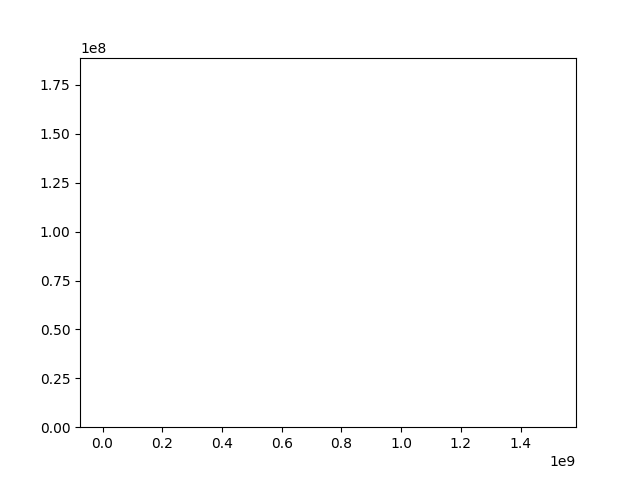
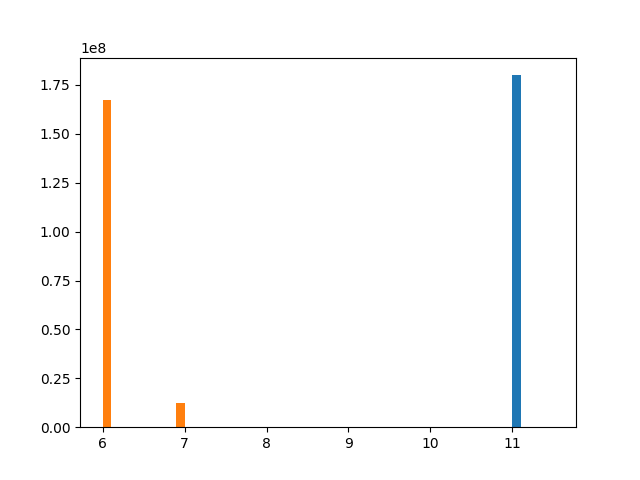
quitar año y mes

diff --git a/rusboot.py b/rusboot.py
@@ -1,0 +1,184 @@
+from sklearn import svm
+from sklearn import tree
+from math import log
+import random
+
+class RUSBoost:
+
+
+    def __init__(self, instances, labels, base_classifier, n_classifier, balance):
+        
+        self.w_update=[]
+        self.clf = []
+        self.n_classifier = n_classifier
+        for i in range(n_classifier):
+            self.clf.append(base_classifier)
+        self.rate = balance
+        self.X = instances
+        self.Y = labels
+        
+        # initialize weight
+        self.weight = []
+        self.init_w = 1.0/len(self.X)
+        for i in range(len(self.X)):
+            self.weight.append(self.init_w)
+    
+    def classify(self, instance):
+        
+        positive_score = 0 # in case of +1
+        negative_score = 0 # in case of 0
+        
+        for k in range(self.n_classifier):
+            if self.clf[k].predict(instance) == 1:
+                positive_score += log(1/self.w_update[k])
+            else:
+                negative_score += log(1/self.w_update[k])
+        if negative_score <= positive_score:
+            return 1
+        else:
+            return 0
+        
+            
+        
+    def learning(self):
+        
+        k = 0
+        while k < self.n_classifier:
+            
+            sampled = self.undersampling()
+            sampled_X = []
+            sampled_Y = []
+            sampled_weight = []
+            
+            for s in sampled:
+                sampled_X.append(s[1])
+                sampled_Y.append(s[2])
+                sampled_weight.append(self.weight[s[0]])
+                
+            self.clf[k].fit(sampled_X, sampled_Y, sampled_weight)
+           
+   
+            loss = 0
+            for i in range(len(self.X)):
+                if self.Y[i] == self.clf[k].predict(self.X[i]):
+                    continue
+                else:
+                    loss += self.weight[i]
+    
+            self.w_update.append(loss/(1-loss))
+        
+            for i in range(len(self.weight)):
+                if loss == 0:
+                    self.weight[i] = self.weight[i]
+                elif self.Y[i] == self.clf[k].predict(self.X[i]):
+                    self.weight[i] = self.weight[i] * (loss / (1 - loss))
+                       
+            sum_weight = 0
+            for i in range(len(self.weight)):
+                sum_weight += self.weight[i]
+              
+            for i in range(len(self.weight)):
+                self.weight[i] = self.weight[i] / sum_weight
+            k = k + 1
+     
+            
+    def undersampling(self):
+        
+        '''Check the major class'''
+        diff = self.Y.count(1) > self.Y.count(0)
+        delete_list = []
+        keep_list =[]
+        if  diff:
+            for i in range(len(self.Y)):
+                if self.Y[i] == 1:
+                    delete_data = [i, self.X[i], 1]
+                    delete_list.append(delete_data)
+                else:
+                    keep_data = [i, self.X[i], 0]
+                    keep_list.append(keep_data)
+        else:
+            for i in range(len(self.Y)):
+                if self.Y[i] == 0:
+                    delete_data = [i, self.X[i], 0]
+                    delete_list.append(delete_data)
+                else:
+                    keep_data = [i, self.X[i], 1]
+                    keep_list.append(keep_data)  
+        
+        while len(delete_list) > self.rate*(len(delete_list)+len(keep_list)):
+            k = random.choice(range(len(delete_list)))
+            delete_list.pop(k)
+        
+        all_list = delete_list + keep_list
+        return sorted(all_list, key=lambda x:x[2])
+    
+if __name__ == '__main__':
+    
+    ''' 
+    Choose a base classifier, e.g. SVM, Decision Tree
+    '''
+    #base_classifier = svm.SVC()
+    base_classifier = tree.DecisionTreeClassifier()
+
+    '''
+    Set the number of base classifiers
+    ''' 
+    N = 20
+    
+    '''
+    Set the rate of minor instances to the total instances
+    If the rate is 0.5, the numbers of both instances become equal
+    by random under sampling. 
+    ''' 
+    rate = 0.05
+    
+    
+    '''
+    Preparation of data
+        "Ecoli data" from
+        http://www.cs.gsu.edu/~zding/research/benchmark-data.php
+        Test data: randomly selected one
+        Supervised data: the others 
+    '''
+    supervisedData =[]
+    supervisedLabel=[]
+    testData =[]
+    testLabel =[]
+    n_features = 7
+    
+    # Read from a text file
+    lines = [] ## all lines
+    for line in open('x1data.txt', 'r'):
+        elements = line[:-1].split(' ')
+        lines.append(elements)
+    
+    # Select a line for test data
+    selectline = lines.pop(random.randint(0, len(lines)))
+    
+    # Separate each line into a feature vector and a lebel
+    testLabel.append(int(selectline[0]))
+    testData = [0]*n_features
+    for i in range(1,n_features+1):
+        pair = selectline[i].split(':')
+        if pair[0] != '':
+            testData[int(pair[0])-1] = pair[1]
+    
+    for line in lines:
+        supervisedLabel.append(int(line[0]))
+        sData = [0]*n_features
+        for i in range(1,n_features+1):
+            pair = line[i].split(':')
+            if pair[0] != '':
+                sData[int(pair[0])-1] = pair[1]
+        supervisedData.append(sData)
+    
+    
+    rus = RUSBoost(supervisedData, supervisedLabel, base_classifier, N, rate)
+    rus.learning()
+    classifiedLabel = rus.classify(testData)
+    print "Test data:",
+    for t in testData:
+        print t,
+    print
+    print "Classified to :" + str(classifiedLabel)
+print "True label is :" + str(testLabel[0])

diff --git a/boosting.py b/boosting.py
@@ -69,10 +69,11 @@ def low_ram_test_read():
 def processDates(df):
     df['click_time_timestamp'] = df['click_time'].map(lambda x: x.timestamp())
     df['click_time'] = pd.to_datetime(df['click_time']).dt.date
-    df['click_time_year'] =pd.to_numeric(df['click_time'].map(lambda x: x.year),downcast='unsigned')
-    df['click_time_month'] =pd.to_numeric(df['click_time'].map(lambda x: x.month),downcast='unsigned')
+    #df['click_time_year'] =pd.to_numeric(df['click_time'].map(lambda x: x.year),downcast='unsigned')
+    #df['click_time_month'] =pd.to_numeric(df['click_time'].map(lambda x: x.month),downcast='unsigned')
     df['click_time_day'] =pd.to_numeric(df['click_time'].map(lambda x: x.day),downcast='unsigned')
     return df
+
 
 
 train = low_ram_train_read(int(sys.argv[2]))

diff --git a/data_visualization.py b/data_visualization.py
@@ -31,15 +31,16 @@ def missingData(field):
     
 def dataDistribution(field):
     train = pd.read_csv(path+'procDatestrain.csv',usecols=[field])
+    print(train.head())
     plt.hist(train.values)
     plt.savefig(field+'_distribution.png')
     #plt.show()
     
 
-features = ['ip', 'app', 'device', 'os', 'channel', 'click_time_timestamp','click_time_year','click_time_month','click_time_day']
+features = ['click_time_month','click_time_day']
 for feat in features:
     dataDistribution(feat)
 
-missingData('attributed_time')
-normalDistribution('click_time_timestamp')
-imbalacedClass()
+#missingData('attributed_time')
+#normalDistribution('click_time_timestamp')
+#imbalacedClass()
